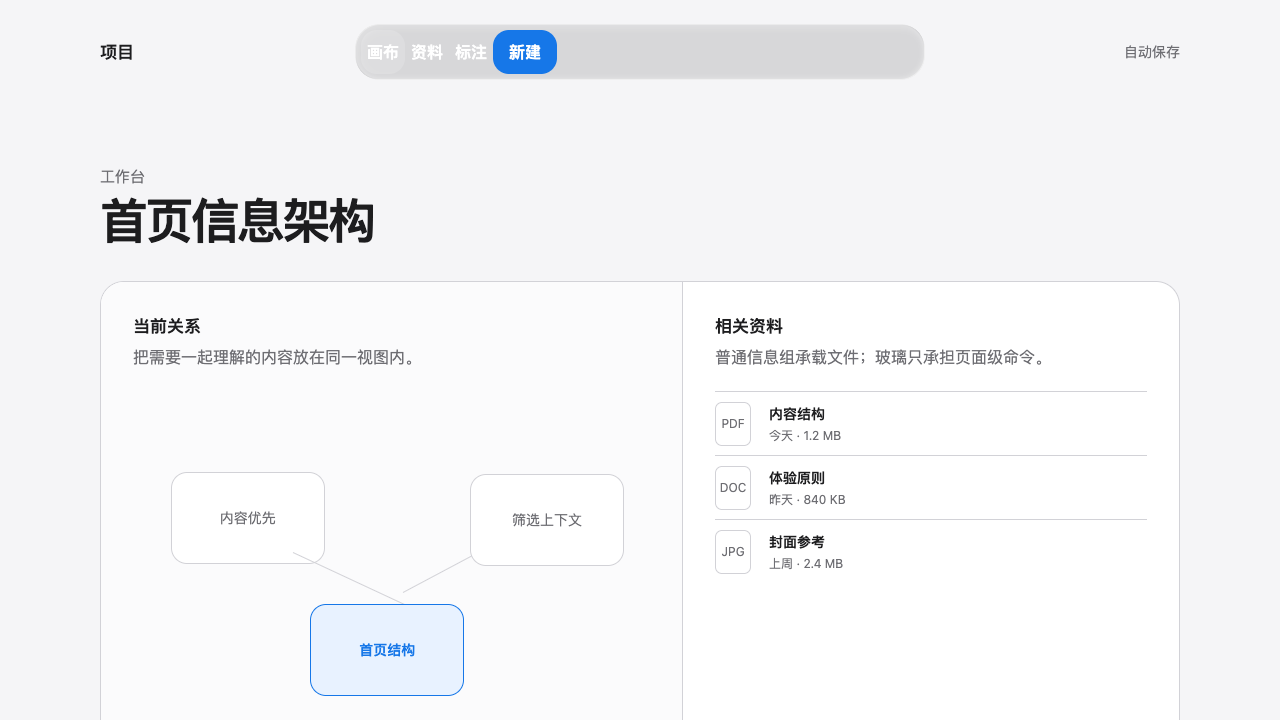
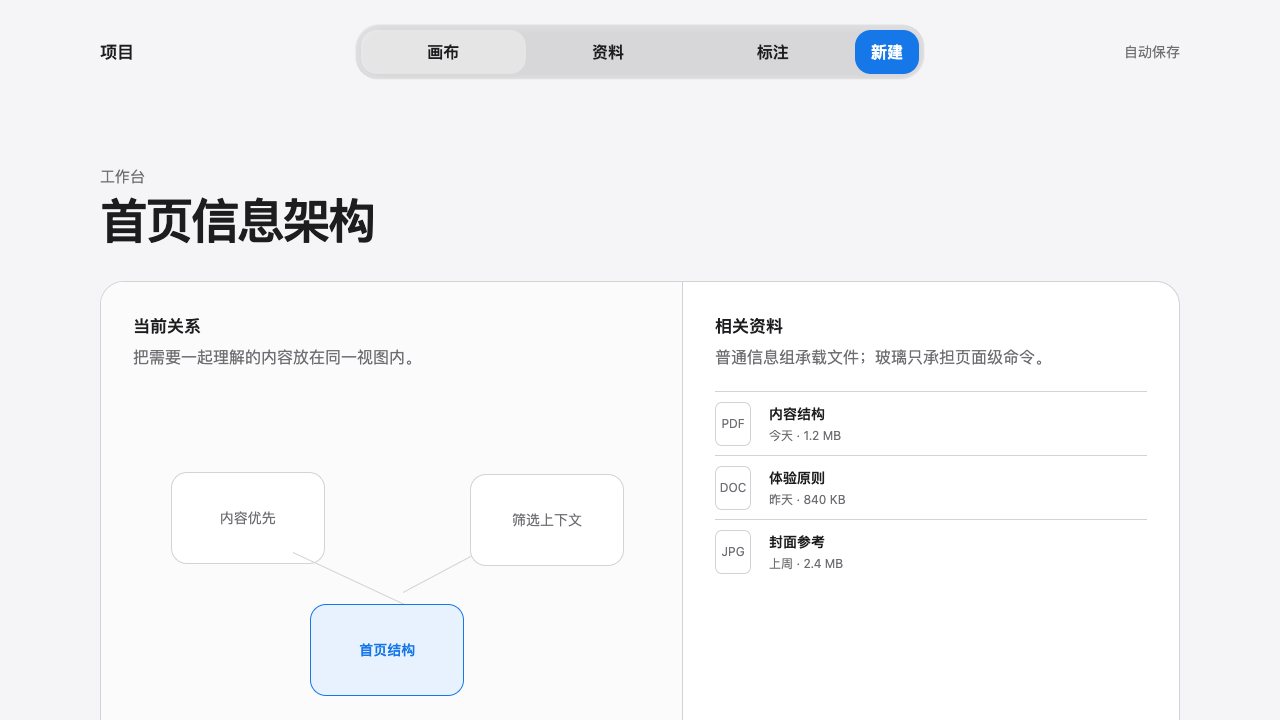
fix: align glass examples and layout contract

diff --git a/examples/06-chat.html b/examples/06-chat.html
@@ -4,11 +4,12 @@
     <meta charset="UTF-8" />
     <meta name="viewport" content="width=device-width, initial-scale=1.0" />
     <title>Liquid Glass · 聊天</title>
+    <link rel="icon" href="data:," />
     <link rel="stylesheet" href="shared.css" />
     <style>
       :root { color-scheme: light; --bg: #f5f5f7; --surface: #fff; --label: #1d1d1f; --secondary: #6e6e73; --separator: #d2d2d7; --tint: #1677e8; background: var(--bg); color: var(--label); font-family: -apple-system, BlinkMacSystemFont, "Segoe UI", "PingFang SC", sans-serif; }
       body { min-height: 168vh; background: var(--bg); }.layout { display: grid; grid-template-columns: 240px minmax(0, 680px); gap: 72px; width: min(1040px, calc(100% - 48px)); min-height: 100vh; margin: 0 auto; padding: 38px 0 132px; }.threads { align-self: start; position: sticky; top: 34px; }.threads h1 { margin: 0 0 22px; font-size: 25px; letter-spacing: -.04em; }.thread { display: flex; width: 100%; gap: 12px; align-items: center; min-height: 62px; border: 0; border-bottom: 1px solid var(--separator); background: transparent; color: inherit; text-align: left; }.avatar { display: grid; width: 36px; height: 36px; flex: 0 0 auto; place-items: center; border-radius: 50%; background: #e5e5ea; color: var(--secondary); font-size: 14px; }.thread.is-selected b { color: var(--tint); }.thread b, .thread small { display: block; }.thread b { font-size: 14px; }.thread small { margin-top: 3px; color: var(--secondary); font-size: 12px; }.conversation { min-width: 0; }.conversation-header { display: flex; align-items: end; justify-content: space-between; margin: 8px 0 40px; }.conversation-header p { margin: 0 0 6px; color: var(--secondary); font-size: 13px; }.conversation-header h2 { margin: 0; font-size: 37px; letter-spacing: -.055em; }.info { display: grid; width: 44px; height: 44px; place-items: center; border: 1px solid var(--separator); border-radius: 50%; background: var(--surface); font-size: 20px; }.messages { display: grid; gap: 17px; }.message { max-width: 76%; padding: 14px 17px; border-radius: 20px 20px 20px 6px; background: var(--surface); box-shadow: 0 6px 15px rgba(0,0,0,.06); line-height: 1.45; }.message.me { justify-self: end; border-radius: 20px 20px 6px 20px; background: #e8f2ff; }.message p { margin: 0; }.message time { display: block; margin-top: 6px; color: var(--secondary); font-size: 11px; }.divider { margin: 22px 0 2px; color: var(--secondary); font-size: 12px; text-align: center; }.attachment { padding: 0; overflow: hidden; }.attachment img { display: block; width: 100%; height: 180px; object-fit: cover; }.attachment p, .attachment time { margin-right: 17px; margin-left: 17px; }.attachment p { margin-top: 13px; }.attachment time { margin-bottom: 13px; }
-      .composer { position: fixed; z-index: 3; bottom: 24px; left: 50%; width: min(680px, calc(100% - 48px)); --border-radius: 24px; transform: translateX(-50%); color: #fff; }.composer .liquid_glass-content { display: grid; grid-template-columns: auto minmax(0, 1fr) auto; gap: 10px; align-items: center; padding: 8px; }.composer button { display: grid; width: 44px; height: 44px; place-items: center; border: 0; border-radius: 50%; background: transparent; color: inherit; font-size: 22px; }.composer button:hover { background: rgba(255,255,255,.16); }.composer input { min-height: 44px; border: 0; outline: 0; background: transparent; color: #fff; font: inherit; }.composer input::placeholder { color: rgba(255,255,255,.72); }.composer .send { background: var(--tint); font-size: 15px; }.composer button:active { transform: scale(.94); } button:focus-visible, input:focus-visible { outline: 3px solid var(--tint); outline-offset: 3px; }
+      .composer { position: fixed; z-index: 3; bottom: 24px; left: 50%; width: min(680px, calc(100% - 48px)); --border-radius: 24px; transform: translateX(-50%); color: var(--label); }.composer .liquid_glass-content { display: grid; grid-template-columns: auto minmax(0, 1fr) auto; gap: 10px; align-items: center; padding: 8px; }.composer button { display: grid; width: 44px; height: 44px; place-items: center; border: 0; border-radius: 50%; background: transparent; color: inherit; font-size: 22px; }.composer button:hover { background: rgba(255,255,255,.34); }.composer input { min-height: 44px; border: 0; outline: 0; background: transparent; color: var(--label); font: inherit; }.composer input::placeholder { color: var(--secondary); }.composer .send { background: var(--tint); color: #fff; font-size: 15px; }.composer button:active { transform: scale(.94); } button:focus-visible, input:focus-visible { outline: 3px solid var(--tint); outline-offset: 3px; }
       @media (max-width: 760px) { .layout { display: block; width: min(100% - 32px, 620px); padding-top: 24px; }.threads { position: relative; top: auto; margin-bottom: 44px; }.threads h1 { margin-bottom: 12px; }.thread { display: inline-flex; width: auto; margin-right: 13px; border: 0; }.thread span:last-child { display: none; }.conversation-header { margin-bottom: 30px; }.message { max-width: 88%; }.composer { right: 12px; bottom: 12px; left: 12px; width: auto; transform: none; } }
     </style>
   </head>

diff --git a/examples/05-workbench.html b/examples/05-workbench.html
@@ -4,6 +4,7 @@
     <meta charset="UTF-8" />
     <meta name="viewport" content="width=device-width, initial-scale=1.0" />
     <title>Liquid Glass · 工作台</title>
+    <link rel="icon" href="data:," />
     <link rel="stylesheet" href="shared.css" />
     <style>
       :root { color-scheme: light; --bg: #f5f5f7; --surface: #fff; --label: #1d1d1f; --secondary: #6e6e73; --separator: #d2d2d7; --tint: #1677e8; background: var(--bg); color: var(--label); font-family: -apple-system, BlinkMacSystemFont, "Segoe UI", "PingFang SC", sans-serif; }
@@ -11,7 +12,7 @@
       .title { margin: 92px 0 34px; }.title p { margin: 0 0 8px; color: var(--secondary); font-size: 15px; }.title h2 { margin: 0; font-size: clamp(34px, 4vw, 48px); letter-spacing: -.05em; line-height: 1.08; }
       .board { display: grid; grid-template-columns: 1.08fr .92fr; min-height: 710px; border: 1px solid var(--separator); border-radius: 24px; overflow: hidden; background: var(--surface); }.canvas { position: relative; min-height: 510px; padding: 32px; border-right: 1px solid var(--separator); background: #fbfbfc; }.canvas h3, .sidebar h3 { margin: 0; font-size: 17px; }.canvas p { margin: 8px 0 0; color: var(--secondary); line-height: 1.45; }.node { position: absolute; display: grid; width: 154px; min-height: 92px; place-items: center; border: 1px solid var(--separator); border-radius: 16px; background: var(--surface); color: var(--secondary); font-size: 14px; text-align: center; }.node.current { border-color: var(--tint); background: #e8f2ff; color: var(--tint); font-weight: 650; }.node.one { top: 190px; left: 12%; }.node.two { top: 322px; left: 36%; }.node.three { top: 192px; right: 10%; }.line { position: absolute; height: 1px; transform-origin: left; background: var(--separator); }.line.a { top: 270px; left: 33%; width: 26%; transform: rotate(25deg); }.line.b { top: 310px; left: 52%; width: 23%; transform: rotate(-28deg); }
       .sidebar { padding: 32px; }.sidebar p { margin: 8px 0 22px; color: var(--secondary); line-height: 1.45; }.file { display: grid; grid-template-columns: 42px minmax(0, 1fr); gap: 12px; align-items: center; min-height: 64px; border-top: 1px solid var(--separator); }.file i { display: grid; width: 36px; height: 44px; place-items: center; border: 1px solid var(--separator); border-radius: 7px; color: var(--secondary); font-size: 12px; font-style: normal; }.file b, .file span { display: block; }.file b { font-size: 14px; }.file span { margin-top: 3px; color: var(--secondary); font-size: 12px; }
-      .toolbar { position: fixed; z-index: 3; top: 24px; left: 50%; width: min(570px, calc(100% - 48px)); --border-radius: 24px; transform: translateX(-50%); color: #fff; }.toolbar .liquid_glass-content { display: flex; min-height: 56px; align-items: center; padding: 6px; }.tool-group { display: flex; flex: 1; }.tool-group button, .create { min-height: 44px; border: 0; border-radius: 16px; background: transparent; color: inherit; font-weight: 620; }.tool-group button { flex: 1; }.tool-group button.is-active, .tool-group button:hover { background: rgba(255,255,255,.16); }.create { padding: 0 16px; background: var(--tint); }.tool-group button:active, .create:active { transform: scale(.96); } button:focus-visible { outline: 3px solid var(--tint); outline-offset: 3px; }
+      .toolbar { position: fixed; z-index: 3; top: 24px; left: 50%; width: min(570px, calc(100% - 48px)); --border-radius: 24px; transform: translateX(-50%); color: var(--label); }.toolbar .liquid_glass-content { display: flex; min-height: 56px; align-items: center; padding: 6px; }.tool-group { display: flex; flex: 1; }.tool-group button, .create { min-height: 44px; border: 0; border-radius: 16px; background: transparent; color: inherit; font-weight: 620; }.tool-group button { flex: 1; }.tool-group button.is-active, .tool-group button:hover { background: rgba(255,255,255,.34); }.create { padding: 0 16px; background: var(--tint); color: #fff; }.tool-group button:active, .create:active { transform: scale(.96); } button:focus-visible { outline: 3px solid var(--tint); outline-offset: 3px; }
       @media (max-width: 720px) { .shell { width: min(100% - 32px, 600px); padding-top: 18px; }.title { margin: 78px 0 28px; }.board { grid-template-columns: 1fr; }.canvas { min-height: 550px; border-right: 0; border-bottom: 1px solid var(--separator); }.sidebar { padding: 24px; }.toolbar { top: 12px; width: calc(100% - 24px); }.tool-group button { font-size: 13px; }.create { padding: 0 13px; }.node { width: 130px; }.node.one { left: 6%; }.node.two { left: 31%; }.node.three { right: 5%; }.line.a { left: 30%; }.line.b { left: 49%; } }
     </style>
   </head>

diff --git a/examples/04-music-player.html b/examples/04-music-player.html
@@ -4,6 +4,7 @@
     <meta charset="UTF-8" />
     <meta name="viewport" content="width=device-width, initial-scale=1.0" />
     <title>Liquid Glass · 音乐播放</title>
+    <link rel="icon" href="data:," />
     <link rel="stylesheet" href="shared.css" />
     <style>
       :root { color-scheme: light; --bg: #f5f5f7; --surface: #fff; --label: #1d1d1f; --secondary: #6e6e73; --separator: #d2d2d7; --tint: #1677e8; background: var(--bg); color: var(--label); font-family: -apple-system, BlinkMacSystemFont, "Segoe UI", "PingFang SC", sans-serif; }

diff --git a/examples/shared.css b/examples/shared.css
@@ -62,7 +62,7 @@ button { font: inherit; cursor: pointer; }
   box-shadow: inset 2px 2px 6px 2px rgba(255, 255, 255, .2), inset -2px -2px 4px -1px rgba(255, 255, 255, .2);
 }
 
-.liquid_glass-content { position: relative; z-index: 4; }
+.liquid_glass-content { position: relative; z-index: 4; width: 100%; min-width: 0; }
 
 html[data-glass-mode="fallback"] .liquid_glass-outer { display: none; }
 html[data-glass-mode="fallback"] .liquid_glass-wrapper { background: rgba(48, 49, 45, .9); }

diff --git a/references/verification.md b/references/verification.md
@@ -68,7 +68,7 @@ Also assert:
 - the cover has `background: rgba(0, 0, 0, 0.12)` and `backdrop-filter: blur(2px)`;
 - the sharp layer has the two one-pixel inset highlights;
 - the reflect layer has the two directional inset shadows;
-- content is above the four layers at `z-index: 4`.
+- content is above the four layers at `z-index: 4` and fills the wrapper (`width: 100%; min-width: 0`) unless intrinsic sizing is intentional;
 - the SVG contains the reference `feDisplacementMap` with `scale="200"`;
 - the reference filter is defined once before wrappers;
 - the intended background is not hidden behind an opaque wrapper or ancestor;
@@ -88,7 +88,7 @@ Before checking CSS, confirm the page has:
 - a stated semantic job for every non-neutral color, limited to `accent`, `link`, `selection`, `status`, or `content asset`; one application tint and only necessary status colors; light/dark/increased-contrast variants are defined;
 - Apple-style color roles are used consistently: neutral system-like surfaces and labels, a restrained app tint, status colors only for status, and scene colors kept separate from interface accents;
 - glass reserved for functional hierarchy rather than applied indiscriminately to every module.
-- content and controls are visibly separated, with structural glass used only to carry or organize a functional layer, never as content decoration;
+- content and controls are visibly separated, with structural glass used only to carry or organize a functional layer, never as content decoration; unexplained empty space inside a toolbar or composer is a layout failure;
 - the first/resting view remains readable before any scrolling or interaction changes the backdrop;
 - custom colors have light, dark, and increased-contrast behavior, and no state relies on color alone;
 - custom buttons provide a visible press state and touch targets are at least 44 CSS px where touch input is expected;
@@ -134,7 +134,7 @@ Confirm the DOM and computed styles satisfy the four-layer contract before judgi
 
 - one `#liquid_glass_filter` definition is present;
 - every wrapper has exactly one outer, cover, sharp, and reflect layer;
-- the content layer is above the material layers;
+- the content layer is above the material layers and fills the wrapper unless intrinsic sizing is intentional;
 - the background contains visible detail behind the wrapper.
 - the surface remains partially transparent; no opaque fill covers the sampled backdrop;
 - the glass is not nested inside an unrelated filtered, transformed, or paint-contained ancestor that changes the intended backdrop topology;

diff --git a/SKILL.md b/SKILL.md
@@ -139,7 +139,7 @@ The reference look is produced by four separate layers, in this order:
 3. `liquid_glass-sharp` — adds the crisp one-pixel white edge.
 4. `liquid_glass-reflect` — adds the inset directional highlight and darker inner edge.
 
-Keep content in a separate layer at `z-index: 4`. The surface is the composition of these layers; it is not one `backdrop-filter` declaration.
+Keep content in a separate layer at `z-index: 4`; its content layer must fill the wrapper (`width: 100%; min-width: 0`) unless an intrinsic-size surface is deliberate. The surface is the composition of these layers; it is not one `backdrop-filter` declaration.
 
 ## Required SVG definition
 
@@ -324,7 +324,7 @@ Make translucency observable in a real product flow, not only in an isolated mat
 3. Write the page brief before choosing components.
 4. Build the representative preview slice described in [Progressive delivery and approval gate](#progressive-delivery-and-approval-gate).
 5. Add the detailed background scene, single SVG filter definition, and four layers in the exact order above.
-6. Keep content and focus states above the layers and readable against the cover.
+6. Keep content and focus states above the layers, make the content layer fill the wrapper, and keep it readable against the cover.
 7. Implement only the interaction class each control needs: immediate response for discrete controls; direct manipulation, interruption, and velocity handoff only when dragging exists.
 8. Verify the preview in a real browser. In `preview` mode, stop at the approval gate; in `full` mode, record the same evidence and continue.
 9. During final expansion, repeat the material and responsive checks. For scrollable pages, capture the same glass control at two scroll positions and confirm its sampled background changes; if the rim displacement is not visible, capture and record the readable fallback before accepting the result.
